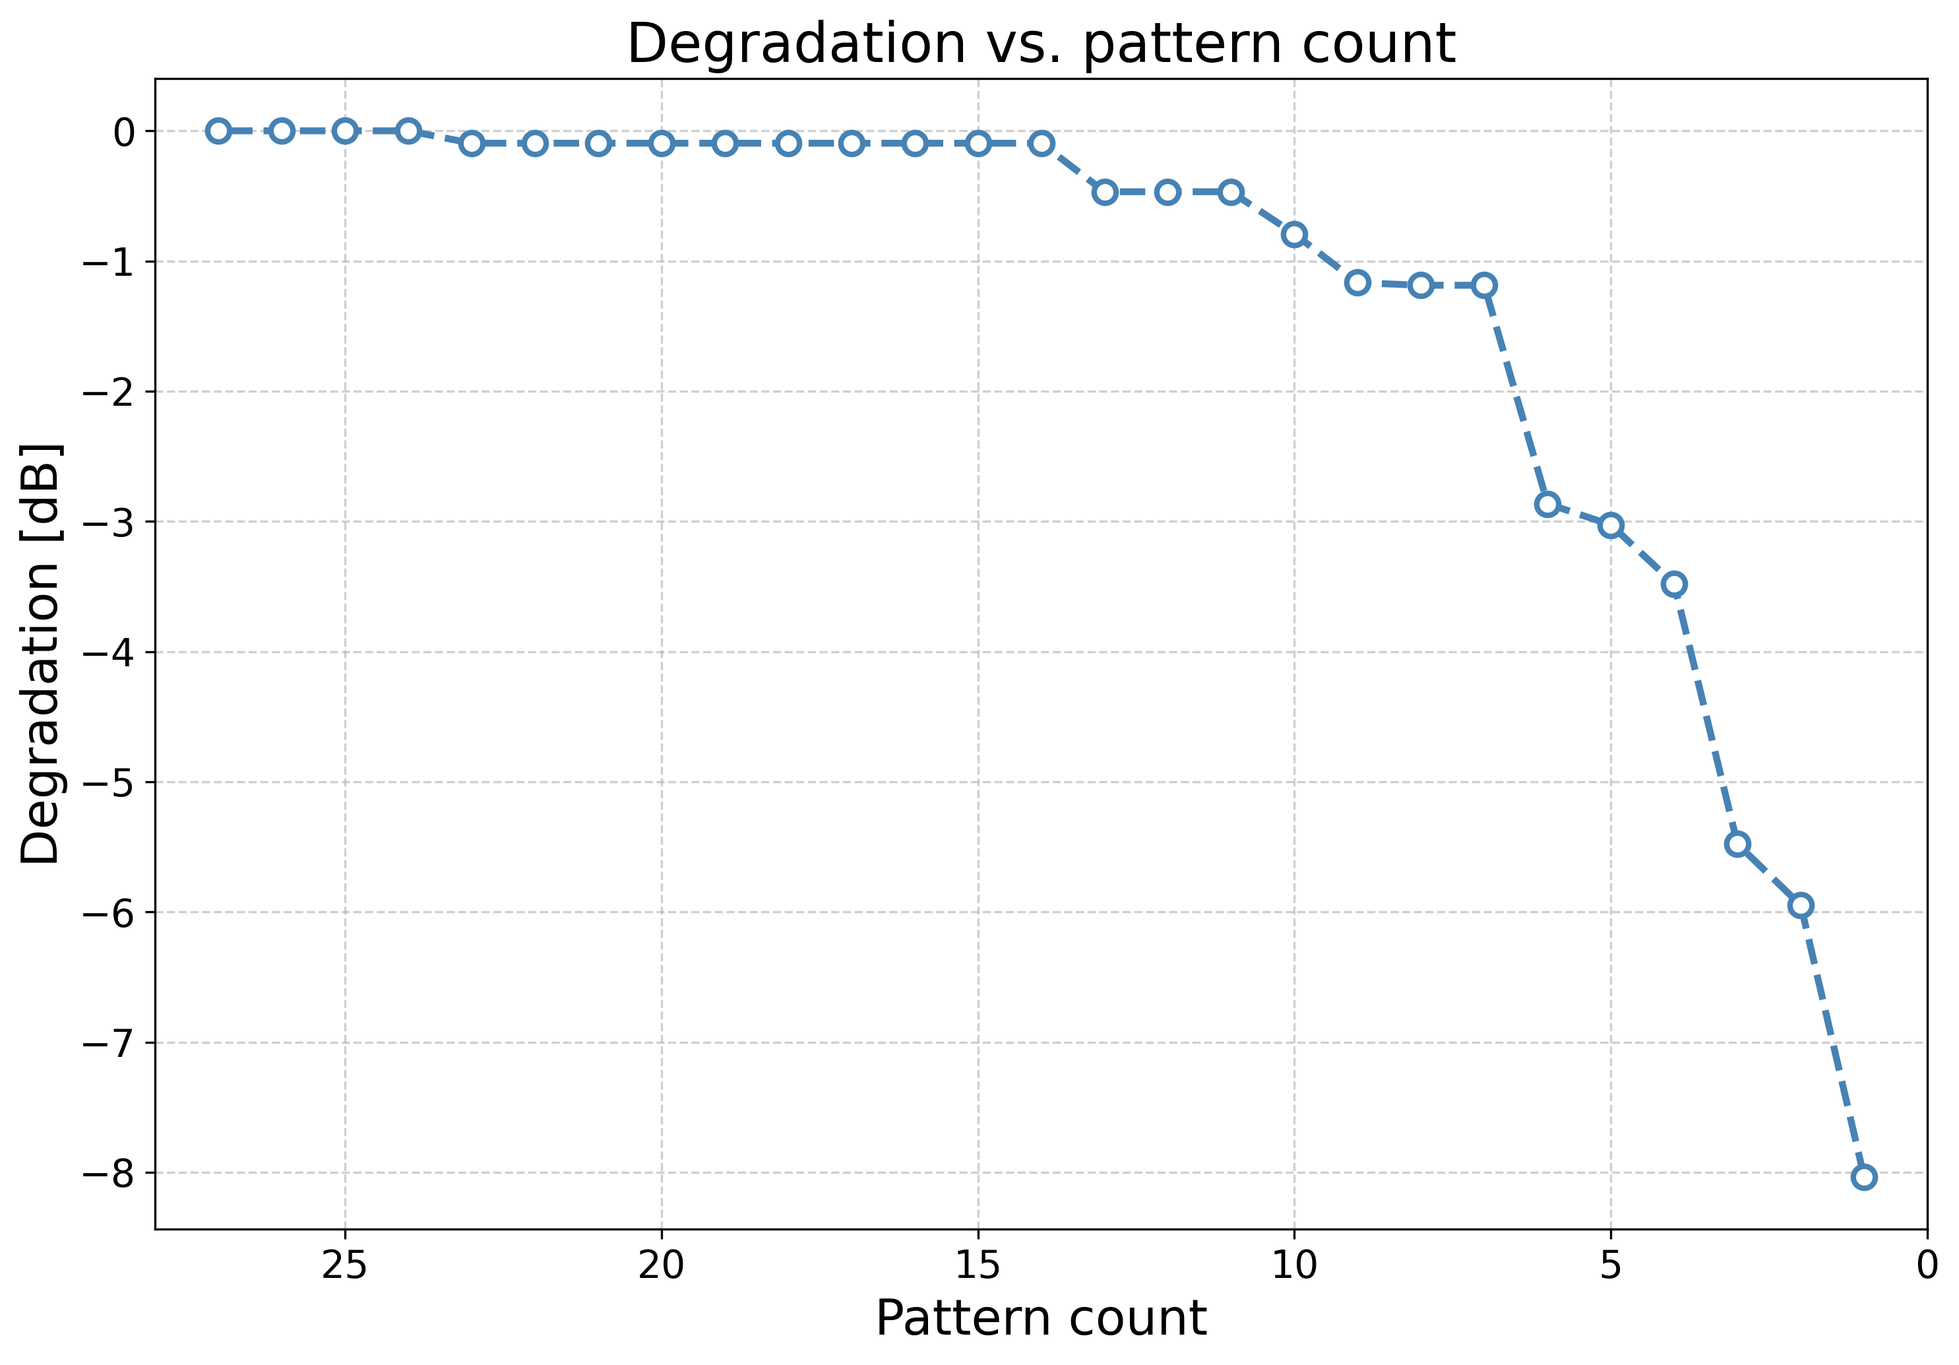
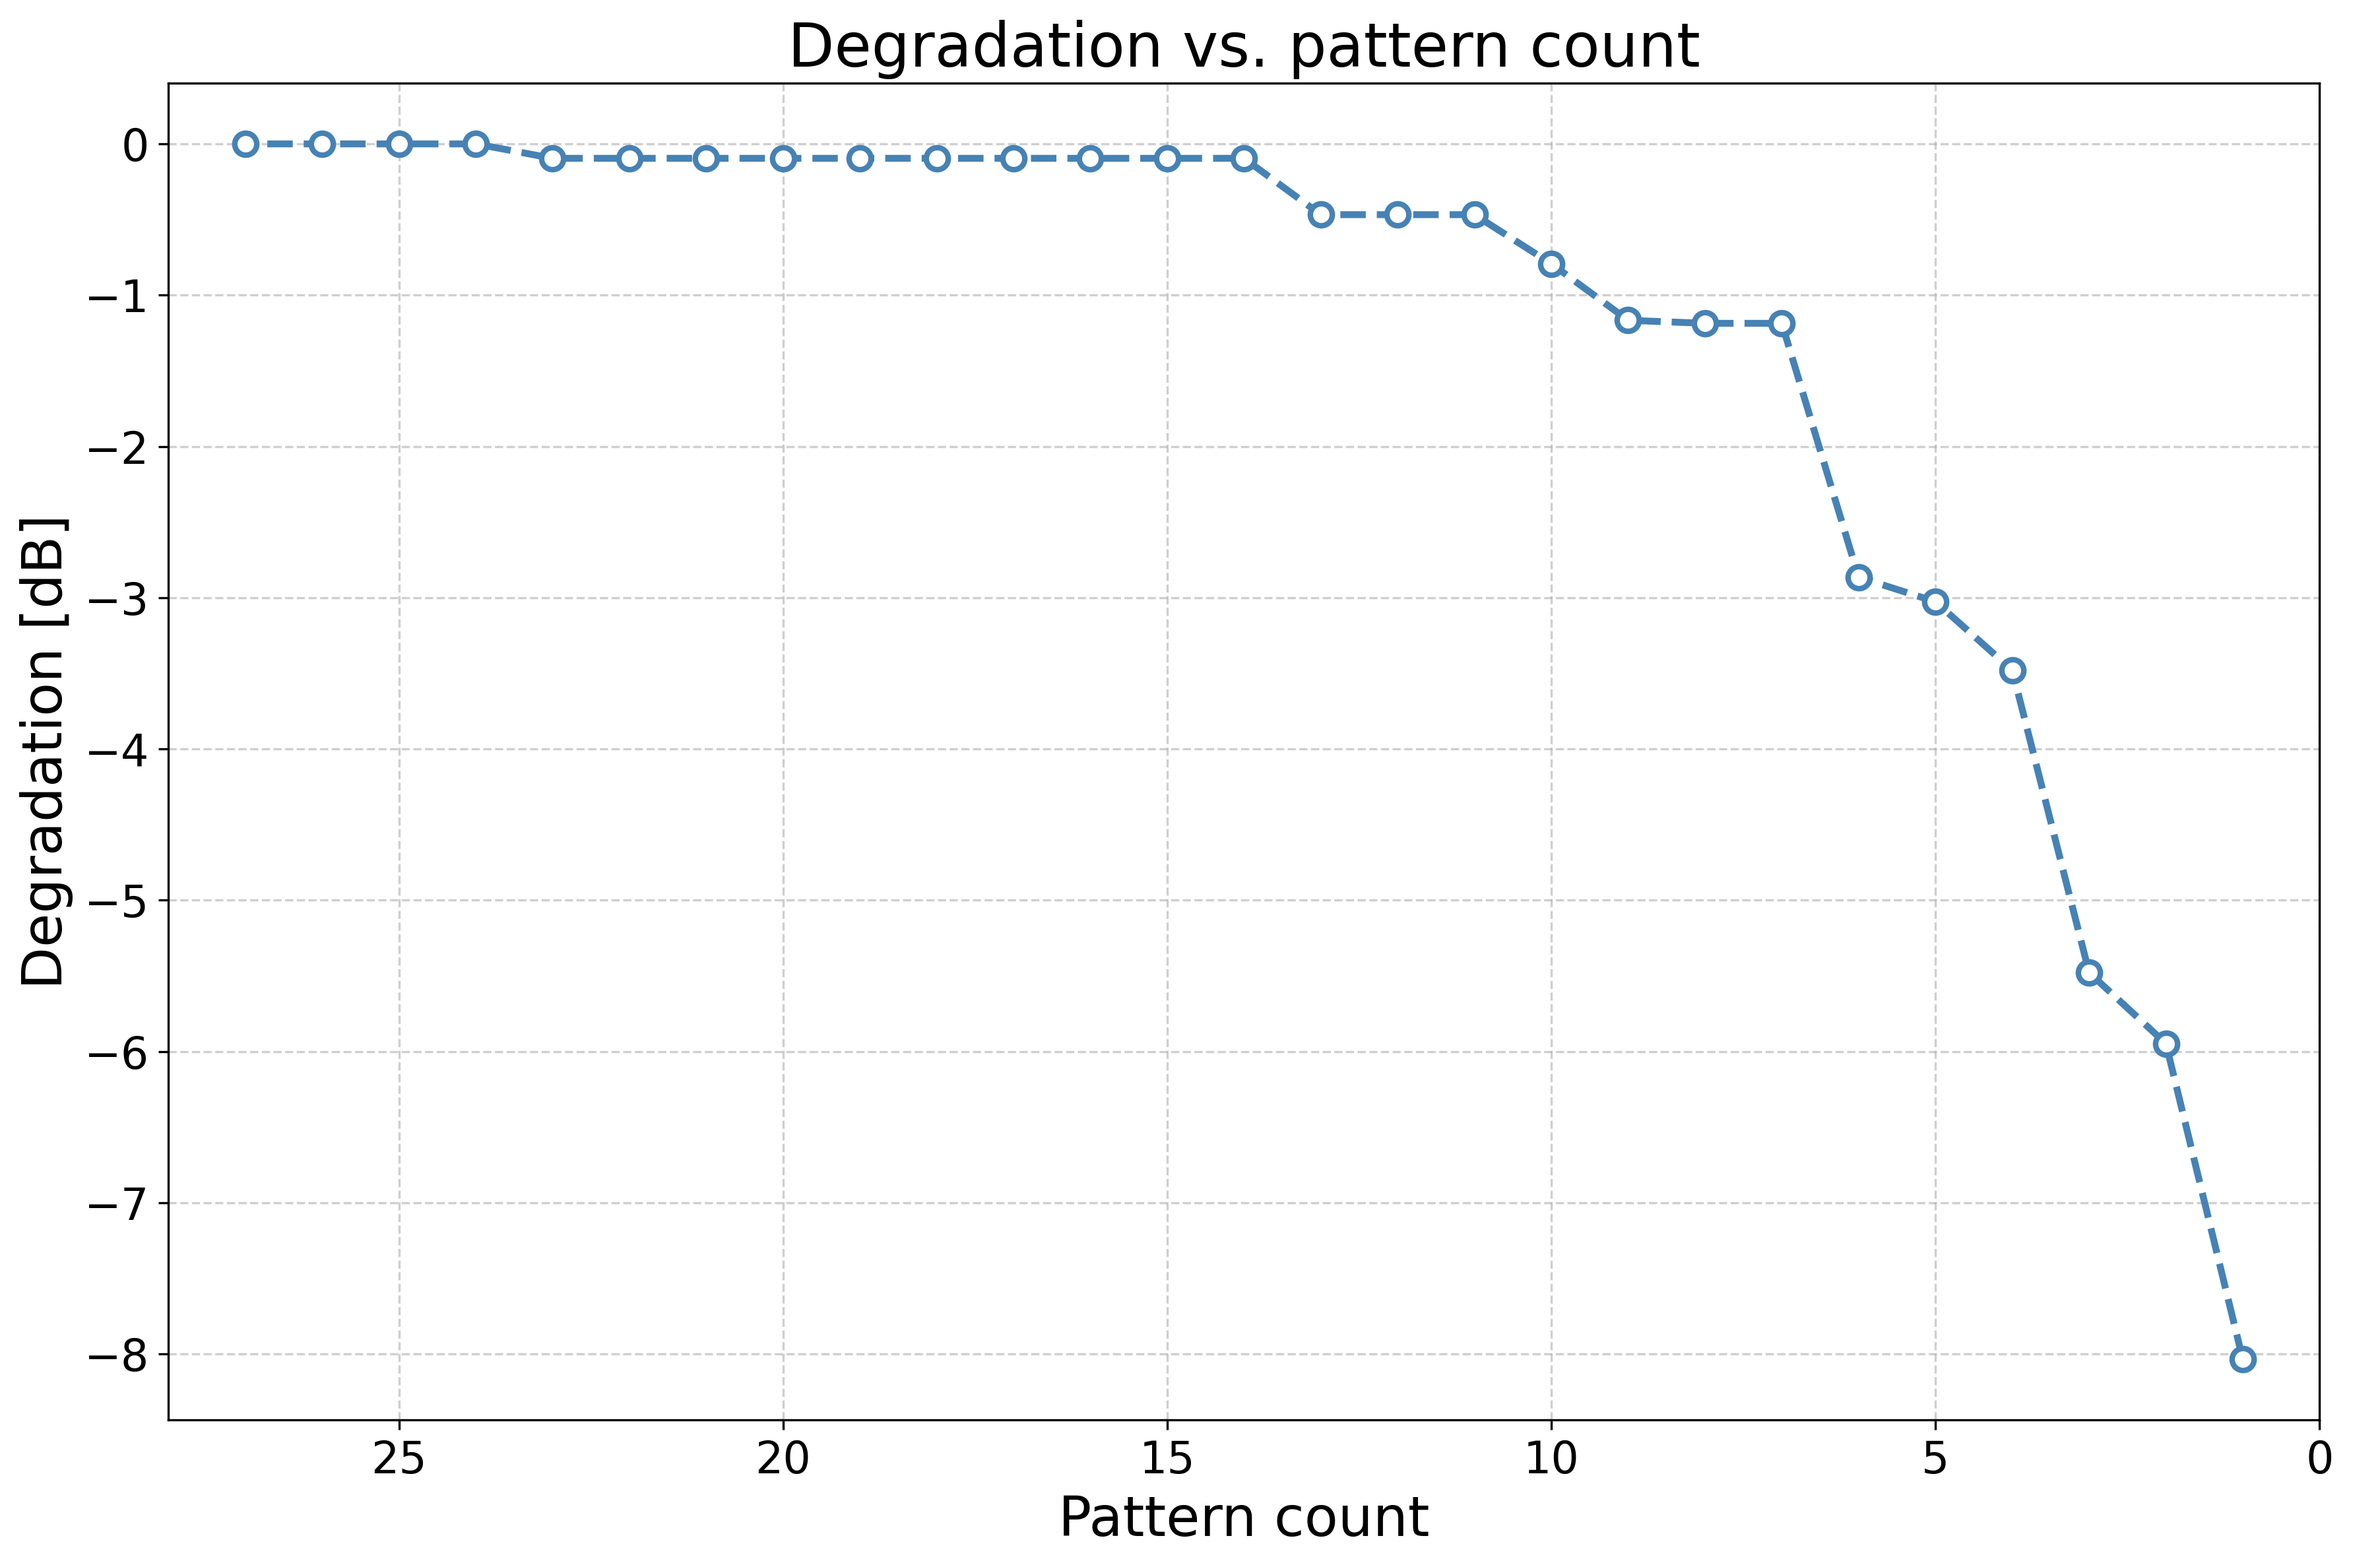
results script chamges

diff --git a/DANE_Z_POMIAROW/V2X_INFOCOM2024_KRIT2025_ESWA/wyniki_jeden_RIS/ESWA_scenario_A_results.py b/DANE_Z_POMIAROW/V2X_INFOCOM2024_KRIT2025_ESWA/wyniki_jeden_RIS/ESWA_scenario_A_results.py
@@ -14,6 +14,7 @@ PATTERN_20 = 20
 
 os.makedirs(output_folder, exist_ok=True)
 
+
 # =========================
 # HELPERS
 # =========================
@@ -85,27 +86,53 @@ def generate_plot(data, output_folder):
     max_patterns = max_vals.set_index("Point")["Pattern"].reindex(points)
     min_patterns = min_vals.set_index("Point")["Pattern"].reindex(points)
 
-    p10 = data[data["Pattern"] == PATTERN_10].set_index("Point")["Power"].reindex(points)
-    p20 = data[data["Pattern"] == PATTERN_20].set_index("Point")["Power"].reindex(points)
+    p10 = (
+        data[data["Pattern"] == PATTERN_10].set_index("Point")["Power"].reindex(points)
+    )
+    p20 = (
+        data[data["Pattern"] == PATTERN_20].set_index("Point")["Power"].reindex(points)
+    )
 
     plt.figure(figsize=(15, 8))
 
     # ===== osie =====
-    plt.xticks(points, fontsize=15)
-    plt.yticks(fontsize=15)
+    plt.xticks(points, fontsize=16)
+    plt.yticks(fontsize=16)
 
     # ===== krzywe =====
-    plt.plot(points, maximum, "o-", color="red",
-             label="Maximum", linewidth=3, markersize=7)
+    plt.plot(
+        points, maximum, "o-", color="red", label="Maximum", linewidth=2.5, markersize=7
+    )
 
-    plt.plot(points, minimum, "o-", color="blue",
-             label="Minimum", linewidth=3, markersize=7)
+    plt.plot(
+        points,
+        minimum,
+        "o-",
+        color="blue",
+        label="Minimum",
+        linewidth=2.5,
+        markersize=7,
+    )
 
-    plt.plot(points, p10, "o--", color="green",
-             label="Pattern 10", linewidth=3, markersize=7)
+    plt.plot(
+        points,
+        p10,
+        "o--",
+        color="green",
+        label="Pattern 10",
+        linewidth=2.5,
+        markersize=7,
+    )
 
-    plt.plot(points, p20, "o--", color="black",
-             label="Pattern 20", linewidth=3, markersize=7)
+    plt.plot(
+        points,
+        p20,
+        "o--",
+        color="black",
+        label="Pattern 20",
+        linewidth=2.5,
+        markersize=7,
+    )
 
     # ===== etykiety przy punktach =====
     for i, x in enumerate(points):
@@ -119,11 +146,7 @@ def generate_plot(data, output_folder):
 
         dy, va = label_offset_max(y_prev, y, y_next)
 
-        plt.text(
-            x, y + dy, f"{pat}",
-            color="red", fontsize=13,
-            ha="center", va=va
-        )
+        plt.text(x, y + dy, f"{pat}", color="red", fontsize=13, ha="center", va=va)
 
         # --- MIN ---
         y = minimum.loc[x]
@@ -140,11 +163,7 @@ def generate_plot(data, output_folder):
             y_next = minimum.loc[points[i + 1]] if i < len(points) - 1 else None
             dy, va = label_offset_min(y_prev, y, y_next)
 
-        plt.text(
-            x, y + dy, f"{pat}",
-            color="blue", fontsize=13,
-            ha="center", va=va
-        )
+        plt.text(x, y + dy, f"{pat}", color="blue", fontsize=13, ha="center", va=va)
 
     # ===== opisy =====
     plt.xlabel("Measurement Point", fontsize=20)
@@ -154,21 +173,12 @@ def generate_plot(data, output_folder):
     plt.grid(True, linestyle="--", alpha=0.6)
 
     # ===== legenda =====
-    legend = plt.legend(
-        fontsize=16,
-        loc="upper left",
-        bbox_to_anchor=(1.02, 1),
-        frameon=True
-    )
+    plt.legend(fontsize=16, loc="upper left", bbox_to_anchor=(1.02, 1))
 
-    for line in legend.get_lines():
-        line.set_linewidth(3)
-
-    plt.tight_layout()
+    plt.subplots_adjust(right=0.82)
 
     out = os.path.join(
-        output_folder,
-        "Power_vs_Point_Max_Min_Pattern10_20_BIGFONTS.png"
+        output_folder, "Power_vs_Point_Max_Min_Pattern10_20_BIGFONTS.png"
     )
     plt.savefig(out, dpi=300, bbox_inches="tight")
     plt.show()

diff --git a/DANE_Z_POMIAROW/V2X_INFOCOM2024_KRIT2025_ESWA/wyniki_jeden_RIS/ESWA_with_5_best.py b/DANE_Z_POMIAROW/V2X_INFOCOM2024_KRIT2025_ESWA/wyniki_jeden_RIS/ESWA_with_5_best.py
@@ -105,7 +105,7 @@ print(f"TOP-{TOP_K_2} patterns: {top_patterns_2}")
 # =========================
 # PLOT
 # =========================
-plt.figure(figsize=(16, 8))
+plt.figure(figsize=(15, 8))
 plt.xticks(points, fontsize=16)
 plt.yticks(fontsize=16)
 
@@ -115,9 +115,9 @@ plt.plot(
     global_max,
     "o-",
     color="red",
-    linewidth=3,
-    markersize=8,
-    label="Maximum (27 patterns)",
+    linewidth=2.5,
+    markersize=7,
+    label="Maximum",
 )
 
 # Best of TOP-K_2 (większy set)
@@ -126,9 +126,9 @@ plt.plot(
     best_of_topk2,
     "s--",
     color="blue",
-    linewidth=3,
-    markersize=8,
-    label=f"Best of TOP-{TOP_K_2} avg patterns",
+    linewidth=2.5,
+    markersize=7,
+    label=f"Best of TOP-{TOP_K_2}",
 )
 
 # Best of TOP-K_1 (mniejszy set)
@@ -137,9 +137,9 @@ plt.plot(
     best_of_topk1,
     "^:",
     color="green",
-    linewidth=3,
-    markersize=8,
-    label=f"Best of TOP-{TOP_K_1} avg patterns",
+    linewidth=2.5,
+    markersize=7,
+    label=f"Best of TOP-{TOP_K_1}",
 )
 
 # =========================
@@ -206,19 +206,16 @@ plt.ylim(y_min - y_margin, y_max + y_margin)
 plt.xlabel("Measurement Point", fontsize=20)
 plt.ylabel("Received Power [dB]", fontsize=20)
 plt.title(
-    f"Received Power vs Measurement Point\n"
-    f"Global Maximum vs Best of TOP-{TOP_K_1} vs TOP-{TOP_K_2} Average Patterns",
+    f"Received Power vs Measurement Point",
     fontsize=22,
 )
 
 plt.grid(True, linestyle="--", alpha=0.6)
 plt.legend(fontsize=16, loc="upper left", bbox_to_anchor=(1.02, 1))
 
-plt.tight_layout()
+plt.subplots_adjust(right=0.82)
 
-out = os.path.join(
-    output_folder, f"Max_vs_{TOP_K_1}_vs_Top_{TOP_K_2}.png"
-)
+out = os.path.join(output_folder, f"Max_vs_{TOP_K_1}_vs_Top_{TOP_K_2}.png")
 plt.savefig(out, dpi=300, bbox_inches="tight")
 plt.show()
 

diff --git a/DANE_Z_POMIAROW/V2X_INFOCOM2024_KRIT2025_ESWA/wyniki_jeden_RIS/ESWA_degradation_vs_pattern_count.py b/DANE_Z_POMIAROW/V2X_INFOCOM2024_KRIT2025_ESWA/wyniki_jeden_RIS/ESWA_degradation_vs_pattern_count.py
@@ -111,7 +111,7 @@ for k in k_values:
 # =========================
 # PLOT (styl jak na obrazku)
 # =========================
-plt.figure(figsize=(10, 7))
+plt.figure(figsize=(12, 8))
 
 plt.plot(
     k_values,
@@ -127,13 +127,13 @@ plt.plot(
 
 # Oś X odwrócona (od max do 0)
 plt.xlim(total_patterns + 1, 0)
-plt.xticks(fontsize=14)
-plt.yticks(fontsize=14)
+plt.xticks(fontsize=16)
+plt.yticks(fontsize=16)
 
 # Etykiety
-plt.xlabel("Pattern count", fontsize=18)
-plt.ylabel("Degradation [dB]", fontsize=18)
-plt.title("Degradation vs. pattern count", fontsize=20)
+plt.xlabel("Pattern count", fontsize=20)
+plt.ylabel("Degradation [dB]", fontsize=20)
+plt.title("Degradation vs. pattern count", fontsize=22)
 
 plt.grid(True, linestyle="--", alpha=0.6)
 plt.tight_layout()
